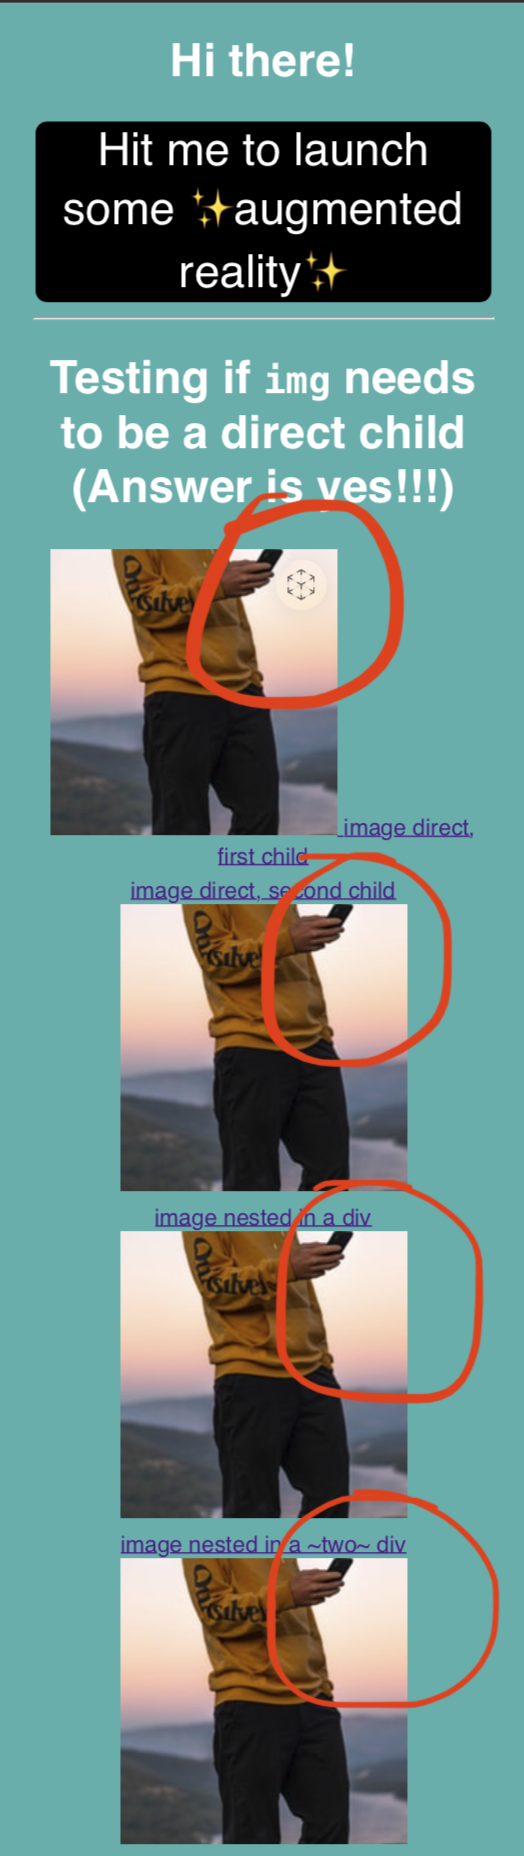
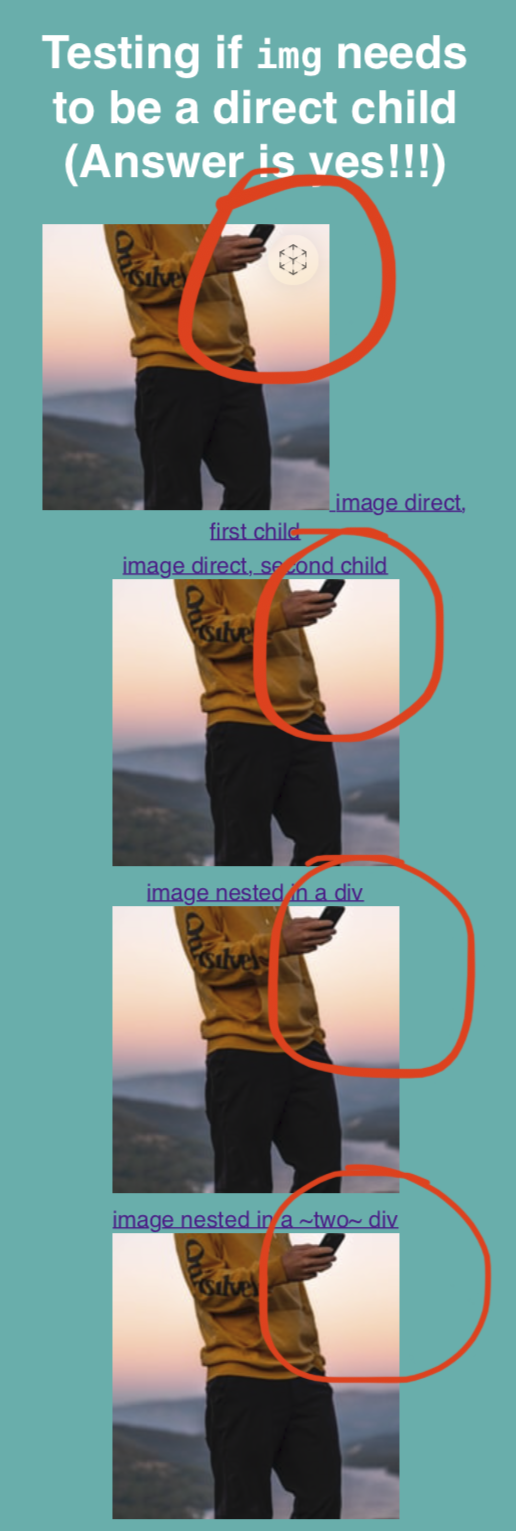
Update USDZ post to near-review-draft

diff --git a/docs/writing/usdz/index.html b/docs/writing/usdz/index.html
@@ -1,4 +1,4 @@
-<!DOCTYPE html><html lang="en"><head><meta charset="UTF-8"><title>Everything I Know About Launching iOS QuickLook From HTML -  cwervo.com</title><meta name="Description" content="Andrés Cuervo's corner of the word wide web!"><meta name="twitter:card" content="summary"><meta name="twitter:site" content="@acwervo"><meta name="twitter:title" content="Everything I Know About Launching iOS QuickLook From HTML"><meta name="twitter:description" content="Andrés Cuervo's slice of the web."><meta name="twitter:image" content="http://cwervo.com/assets/images/favicon.png"><link rel="icon" type="image/png" href="/assets/images/favicon.png"><meta name="viewport" content="initial-scale=1.0"><style>body {padding: 0 3%;}</style><link rel="stylesheet" href="/assets/prism-duotone-light.css"><style>/*Include auto-wrapping 2019-09-23
+<!DOCTYPE html><html lang="en"><head><meta charset="UTF-8"><title>Everything I Know About Launching iOS QuickLook From The Web -  cwervo.com</title><meta name="Description" content="Andrés Cuervo's corner of the word wide web!"><meta name="twitter:card" content="summary"><meta name="twitter:site" content="@acwervo"><meta name="twitter:title" content="Everything I Know About Launching iOS QuickLook From The Web"><meta name="twitter:description" content="Andrés Cuervo's slice of the web."><meta name="twitter:image" content="http://cwervo.com/assets/images/favicon.png"><link rel="icon" type="image/png" href="/assets/images/favicon.png"><meta name="viewport" content="initial-scale=1.0"><style>body {padding: 0 3%;}</style><link rel="stylesheet" href="/assets/prism-duotone-light.css"><style>/*Include auto-wrapping 2019-09-23
 * from this tutorial: https://www.tutorialspoint.com/How-do-I-wrap-text-in-a-pre-tag-in-HTML
 * */
 pre {
@@ -115,50 +115,49 @@ figcaption {
         padding: 0 25%;
     }
 }
-</style><main class="blog-post"><h1 id="blog-title">Everything I Know About Launching iOS QuickLook From HTML</h1><div>September 24, 2019</div><p>Did you know you can launch 3D models from a web page? Like this:</p>
-<p><model-viewer ar src="/assets/3D-models/logo.glb" ios-src="/assets/3D-models/logo-3m-scaled.usdz" auto-rotate camera-controls background-color="#2EAFAC"></model-viewer></p>
-<div class="caption">A 3D version of my personal logo made using <a href="https://github.com/GoogleWebComponents/model-viewer"><code>&lt;model-viewer&gt;</code></a>
+</style><main class="blog-post"><h1 id="blog-title">Everything I Know About Launching iOS QuickLook From The Web</h1><div>September 24, 2019</div><p>Did you know you can launch 3D models from a web page? There's a helpful web component called <a href="https://github.com/GoogleWebComponents/model-viewer"><code>&lt;model-viewer&gt;</code></a> that will handle this for you. It'll look something like this:</p>
+<p><model-viewer ar src="/assets/3D-models/logo.glb" ios-src="/assets/3D-models/logo-3m-scaled.usdz" auto-rotate camera-controls background-color="#2EAFAC" alt="Spinning AC logo"></model-viewer></p>
+<div class="caption">A 3D version of my personal logo displayed using <code>&lt;model-viewer&gt;</code>
 </div>
 <p>... &amp; the source code looks like this:</p>
 <pre class="language-html"><code class="language-html"><span class="token tag"><span class="token tag"><span class="token punctuation">&lt;</span>model-viewer</span><br><span class="highlight-line">    <span class="token attr-name">src</span><span class="token attr-value"><span class="token punctuation">=</span><span class="token punctuation">"</span>/assets/3D-models/logo.glb<span class="token punctuation">"</span></span></span><br><span class="highlight-line">    <span class="token attr-name">ios-src</span><span class="token attr-value"><span class="token punctuation">=</span><span class="token punctuation">"</span>/assets/3D-models/logo-3m-scaled.usdz<span class="token punctuation">"</span></span></span><br>    <span class="token attr-name">ar</span> <span class="token attr-name">auto-rotate</span> <span class="token attr-name">camera-controls</span> <span class="token attr-name">background-color</span><span class="token attr-value"><span class="token punctuation">=</span><span class="token punctuation">"</span>#2EAFAC<span class="token punctuation">"</span></span><span class="token punctuation">></span></span><br><span class="highlight-line"><span class="token tag"><span class="token tag"><span class="token punctuation">&lt;/</span>model-viewer</span><span class="token punctuation">></span></span></span></code></pre>
 <p>On iOS it even launches a proprietary feature called AR QuickLook:</p>
-<p><img src="/assets/images/arquicklook-blog-post/directness-test-screenshot.png" alt="AR QuickLook Preview"></p>
+<p><img src="/assets/images/arquicklook-blog-post/logo-quicklock-screencap.jpg" alt="AR QuickLook screenshot, previewing 3D personal logo"></p>
 <p>Okay, that's cool! How does it work? Well under the hood this web component — <a href="https://github.com/GoogleWebComponents/model-viewer"><code>&lt;model-viewer&gt;</code></a> — is using browser-specific attributes to launch proprietary AR features (translation: this will only work in specific browsers &amp; is not standard HTML!). On iOS devices it's using  <a href="https://developer.apple.com/augmented-reality/quick-look/">iOS QuickLook</a> &amp; on Android it's using <a href="https://developers.google.com/ar/develop/java/scene-viewer">Android's AR Scene Viewer</a>. While Google documents exactly how Scene Viewer should be launched from HTML, Apple's HTML QuickLook documentation is super sparse. It's not on <a href="https://developer.apple.com/documentation/">their documentation website</a> &amp; all I could find officially documenting it is:</p>
 <ul>
 <li>A talk from 2018 — <a href="https://developer.apple.com/videos/play/wwdc2018/603/">Integrating Apps and Content with AR Quick Look</a></li>
 <li>A talk from 2019 — <a href="https://developer.apple.com/videos/play/wwdc2019/612">Advances in AR Quick Look</a></li>
 <li><a href="https://devstreaming-cdn.apple.com/videos/wwdc/2018/603augiuv41xoowslk8/603/603_integrating_apps_and_content_with_ar_quick_look.pdf">Four slides in this PDF</a> (21 through 25, if you're curious)</li>
 </ul>
-<p>... and that's it! There's a <a href="https://developer.apple.com/design/human-interface-guidelines/ios/system-capabilities/quick-look/">wealth</a>. <a href="https://developer.apple.com/library/archive/documentation/FileManagement/Conceptual/DocumentInteraction_TopicsForIOS/Introduction/Introduction.html">of</a>. <a href="https://developer.apple.com/documentation/quicklook">information</a>. on the app-based way to launch QuickLook, but surprisingly little on how to launch it from the web.</p>
+<p>... and that's it! There's a <a href="https://developer.apple.com/design/human-interface-guidelines/ios/system-capabilities/quick-look/">wealth</a>. <a href="https://developer.apple.com/library/archive/documentation/FileManagement/Conceptual/DocumentInteraction_TopicsForIOS/Introduction/Introduction.html">of</a>. <a href="https://developer.apple.com/documentation/quicklook">information</a>. on the app-based way to launch QuickLook, but surprisingly little on how to launch it from the web. This post exists because I've learned a bunch about launching iOS QuickLook from the browser while using it <a href="http://movableink.com/" target="blank_">at work</a> &amp; I want to save others time!</p>
 <h2 id="everything-i-know">Everything I know</h2>
 <h3 id="the-image-tag-is-required">The Image Tag Is Required</h3>
 <p>One thing they don't <em>explicitly</em> say is that the image tag is <strong>required</strong>. You can't just make a link with <code>href=&quot;eg.usdz&quot;</code> &amp; <code>rel=ar</code> — it needs to have a direct child that's an image.That is, in HTML, you <em>need</em> this structure:</p>
-<pre><code>&lt;a href=&quot;example.usdz&quot; rel=&quot;ar&quot;&gt;
-  &lt;img href=&quot;example-poster&quot; /&gt;
-&lt;/a&gt;
-</code></pre>
+<pre class="language-html"><code class="language-html"><span class="highlight-line"><span class="token tag"><span class="token tag"><span class="token punctuation">&lt;</span>a</span> <span class="token attr-name">href</span><span class="token attr-value"><span class="token punctuation">=</span><span class="token punctuation">"</span>example.usdz<span class="token punctuation">"</span></span> <span class="token attr-name">rel</span><span class="token attr-value"><span class="token punctuation">=</span><span class="token punctuation">"</span>ar<span class="token punctuation">"</span></span><span class="token punctuation">></span></span></span><br><span class="highlight-line">    <span class="token tag"><span class="token tag"><span class="token punctuation">&lt;</span>img</span> <span class="token attr-name">href</span><span class="token attr-value"><span class="token punctuation">=</span><span class="token punctuation">"</span>eg.jpg><span class="token punctuation">"</span></span> <span class="token punctuation">/></span></span></span><br><span class="highlight-line"><span class="token tag"><span class="token tag"><span class="token punctuation">&lt;/</span>a</span><span class="token punctuation">></span></span></span></code></pre>
 <h3 id="the-image-tag-must-be-the-first-child">The Image Tag <em>Must</em> Be The First Child</h3>
-<p>I ran a <a href="">little test</a> &amp; as of 2019-09-24, on iOS 13, it appears</p>
+<p>I ran a <a href="">little test</a> &amp; as of 2019-09-24, on iOS 13, it appears that it's a strict requirement for the <code>img</code> tag to be the first nested child of the <code>rel=ar</code> link element. If it's the second element, or even nested in the first child element, Safari fails to recognize it as an AR QuickLook element &amp; instead will link to the USDZ directly. You can see this because the special QuickLook box icon doesn't appear in the top right of any elements after the first:</p>
 <p><img src="/assets/images/arquicklook-blog-post/directness-test-screenshot.png" alt="AR QuickLook Preview"></p>
 <div class="caption">A screenshot from <a href="https://test-ios-quicklook-js.glitch.me/">test-ios-quicklook-js.glitch.me</a> showing that from HTML the only way to activate AR QuickLook on iOS is to have the direct, first child of a <code>rel=ar</code> element be an <code>img</code></div>
+<p>What if you don't want to use a preview image? You can actually get away with something like this:</p>
+<pre class="language-html"><code class="language-html"><span class="highlight-line"><span class="token tag"><span class="token tag"><span class="token punctuation">&lt;</span>a</span> <span class="token attr-name">href</span><span class="token attr-value"><span class="token punctuation">=</span><span class="token punctuation">"</span>example.usdz<span class="token punctuation">"</span></span> <span class="token attr-name">rel</span><span class="token attr-value"><span class="token punctuation">=</span><span class="token punctuation">"</span>ar<span class="token punctuation">"</span></span><span class="token punctuation">></span></span></span><br><span class="highlight-line">    <span class="token tag"><span class="token tag"><span class="token punctuation">&lt;</span>img</span> <span class="token punctuation">/></span></span> <span class="token comment">&lt;!-- remember, this has to be first! --></span></span><br><span class="highlight-line">    <span class="token comment">&lt;!-- Put whatever else you want in here --></span></span><br><span class="highlight-line"><span class="token tag"><span class="token tag"><span class="token punctuation">&lt;/</span>a</span><span class="token punctuation">></span></span></span></code></pre>
+<p>If you're on iOS 13 right now try <a href="https://cwervo-assets.netlify.com/models/cwervo/logo.usdz" rel="ar"> <img> <span>hitting this piece of text</span> </a> &amp; you should see AR QuickLook pop up with the model from the beginning of the post!</p>
 <h2 id="launching-quicklook-from-javascript">Launching QuickLook From JavaScript</h2>
-<p>What if you don't want to use a preview image? You can use the link standalone in HTML like this:</p>
-<pre class="language-html"><code class="language-html"><span class="highlight-line"><span class="token tag"><span class="token tag"><span class="token punctuation">&lt;</span>a</span> <span class="token attr-name">href</span><span class="token attr-value"><span class="token punctuation">=</span><span class="token punctuation">"</span>example.usdz<span class="token punctuation">"</span></span> <span class="token attr-name">rel</span><span class="token attr-value"><span class="token punctuation">=</span><span class="token punctuation">"</span>ar<span class="token punctuation">"</span></span><span class="token punctuation">></span></span></span><br><span class="highlight-line">    <span class="token tag"><span class="token tag"><span class="token punctuation">&lt;</span>img</span> <span class="token attr-name">height</span><span class="token attr-value"><span class="token punctuation">=</span><span class="token punctuation">"</span>1<span class="token punctuation">"</span></span> <span class="token attr-name">width</span><span class="token attr-value"><span class="token punctuation">=</span><span class="token punctuation">"</span>1<span class="token punctuation">"</span></span> <span class="token punctuation">/></span></span></span><br><span class="highlight-line">    <span class="token comment">&lt;!-- Put whatever else you want in here --></span></span><br><span class="highlight-line"><span class="token tag"><span class="token tag"><span class="token punctuation">&lt;/</span>a</span><span class="token punctuation">></span></span></span></code></pre>
-<h2 id="os-differences">OS Differences</h2>
-<h3 id="ios-12">iOS 12</h3>
+<h3 id="os-differences">OS Differences</h3>
+<h4 id="ios-12">iOS 12</h4>
 <ul>
 <li>Works in Safari &amp; PWA's (e.g. pages saved to the Home Screen from Safari)</li>
-<li>Doesn't work in WKWebViews</li>
+<li>Doesn't work in in-app browsers</li>
 </ul>
-<h3 id="ios-13">iOS 13</h3>
+<h4 id="ios-13">iOS 13</h4>
 <ul>
 <li>Works in all of the above</li>
+<li>Now works in in-app browsers!
+<ul>
 <li>Big exception: as of 2019-09-23 this still doesn't work in Facebook's in-app web browser. It looks like they're not using the standard in-app browser &amp; using their own WKWebView ¯_(ツ)_/¯</li>
 </ul>
-<p>Include that this works in in-app browsers as of iOS 13 (e.g. Twitter's link preview or Notion's preview. Not Facebooks's though because they're using a custom WKWebView) &amp; in PWA'S. Doesn't in iOS 12.</p>
-<p>/// try <a href="https://twitter.com/hvhbinc/status/1176277202985467906?s=21">this</a> on old iPhone !! See if it works in Notion's webview &amp; Twitter's Webview!</p>
-<p>// test this in a Glitch project that sets itself as a minimal iOS PWA</p>
+</li>
+</ul>
 <h2 id="did-i-miss-anything%3F">Did I miss anything?</h2>
-<p>I'm posting this because I'd like there to be a single reference for all this information — if I missed anything, feel free to email me at hi+usdz@cwe.wtf</p>
-<p>// note: this means you have to set up mail forwarding from <a href="http://cwe.wtf">cwe.wtf</a> ... See if Cloudflare can do this? Otherwise just use namecheap mail service 🙃</p>
+<p>I'm posting this because I'd like there to be a single reference for all this information — if I missed anything, feel free to email me at
+<a href="mailto:hi+usdz@cwe.wtf">hi+usdz@cwe.wtf</a></p>
 <span><span class="date">◼ September 24, 2019 </span><a href="https://twitter.com/acwervo">@acwervo</a></span></main><p><a href="/">← Home</a></p></body></html>

diff --git a/docs/writing/drafts/index.html b/docs/writing/drafts/index.html
@@ -72,4 +72,4 @@ nav > ul > li:not(:last-child) {
 ::selection {
     background: #2EAFAC;
 }
-</style></head><link rel="stylesheet" href="/main.css"><!-- Colors from: http://clrs.cc/a11y/--><body style="font-family: sans-serif; color: black; background-color: #FFFFFF;"><nav style="display: block; width: 100%; font-size: 1.25rem;"><ul id="navList" style="list-style-type: none; padding-left: 0;"><li class="navItem" id="logo"><a href="/"><img id="logoImg" src="/assets/images/favicon.png" alt="small-logo"></a></li><li class="navItem"><a href="/">Home</a></li><li class="navItem"><a href="/writing">Writing</a></li><li class="navItem"><a href="/projects">Projects</a></li><li class="navItem"><a href="/speaking">Speaking</a></li><li class="navItem"><a href="/contact">Contact</a></li><li class="navItem"><a href="https://meet.cwervo.com/">Coffee☕</a></li></ul></nav><br><h2>Drafts</h2><li><a href="/writing/gestlat-based-programming/">Gestalt Based Programming (Fri Aug 31 2018 20:00:00 GMT-0400 (Eastern Daylight Time))</a></li><li><a href="/writing/first-post/">first test post (2018-09-02)</a></li><li><a href="/writing/drafts/">Drafts ()</a></li><li><a href="/writing/">Writing ()</a></li><li><a href="/writing/usdz/">Everything I Know About Launching iOS QuickLook From HTML (2019-09-24)</a></li></body></html>
+</style></head><link rel="stylesheet" href="/main.css"><!-- Colors from: http://clrs.cc/a11y/--><body style="font-family: sans-serif; color: black; background-color: #FFFFFF;"><nav style="display: block; width: 100%; font-size: 1.25rem;"><ul id="navList" style="list-style-type: none; padding-left: 0;"><li class="navItem" id="logo"><a href="/"><img id="logoImg" src="/assets/images/favicon.png" alt="small-logo"></a></li><li class="navItem"><a href="/">Home</a></li><li class="navItem"><a href="/writing">Writing</a></li><li class="navItem"><a href="/projects">Projects</a></li><li class="navItem"><a href="/speaking">Speaking</a></li><li class="navItem"><a href="/contact">Contact</a></li><li class="navItem"><a href="https://meet.cwervo.com/">Coffee☕</a></li></ul></nav><br><h2>Drafts</h2><li><a href="/writing/gestlat-based-programming/">Gestalt Based Programming (Fri Aug 31 2018 20:00:00 GMT-0400 (Eastern Daylight Time))</a></li><li><a href="/writing/first-post/">first test post (2018-09-02)</a></li><li><a href="/writing/drafts/">Drafts ()</a></li><li><a href="/writing/">Writing ()</a></li><li><a href="/writing/usdz/">Everything I Know About Launching iOS QuickLook From The Web (2019-09-24)</a></li></body></html>

diff --git a/src/writing/usdz.md b/src/writing/usdz.md
@@ -1,15 +1,15 @@
 ---
-title: Everything I Know About Launching iOS QuickLook From HTML
+title: Everything I Know About Launching iOS QuickLook From The Web
 date: "2019-09-24"
 draft: true
 includeModelViewer0dot6: true
 syntaxHighlighting: true
 ---
 
-Did you know you can launch 3D models from a web page? Like this:
+Did you know you can launch 3D models from a web page? There's a helpful web component called <a href="https://github.com/GoogleWebComponents/model-viewer"><code>&lt;model-viewer&gt;</code></a> that will handle this for you. It'll look something like this:
 
-<model-viewer ar src="/assets/3D-models/logo.glb" ios-src="/assets/3D-models/logo-3m-scaled.usdz" auto-rotate camera-controls background-color="#2EAFAC"></model-viewer>
-<div class="caption">A 3D version of my personal logo made using <a href="https://github.com/GoogleWebComponents/model-viewer"><code>&lt;model-viewer&gt;</code></a>
+<model-viewer ar src="/assets/3D-models/logo.glb" ios-src="/assets/3D-models/logo-3m-scaled.usdz" auto-rotate camera-controls background-color="#2EAFAC" alt="Spinning AC logo"></model-viewer>
+<div class="caption">A 3D version of my personal logo displayed using <code>&lt;model-viewer&gt;</code>
 </div>
 
 ... & the source code looks like this:
@@ -24,7 +24,8 @@ Did you know you can launch 3D models from a web page? Like this:
 
 On iOS it even launches a proprietary feature called AR QuickLook:
 
-![AR QuickLook Preview](/assets/images/arquicklook-blog-post/directness-test-screenshot.png)
+![AR QuickLook screenshot, previewing 3D personal logo](/assets/images/arquicklook-blog-post/logo-quicklock-screencap.jpg)
+
 
 Okay, that's cool! How does it work? Well under the hood this web component — [`<model-viewer>`](https://github.com/GoogleWebComponents/model-viewer) — is using browser-specific attributes to launch proprietary AR features (translation: this will only work in specific browsers & is not standard HTML!). On iOS devices it's using  [iOS QuickLook](https://developer.apple.com/augmented-reality/quick-look/) & on Android it's using [Android's AR Scene Viewer](https://developers.google.com/ar/develop/java/scene-viewer). While Google documents exactly how Scene Viewer should be launched from HTML, Apple's HTML QuickLook documentation is super sparse. It's not on [their documentation website](https://developer.apple.com/documentation/) & all I could find officially documenting it is:
 
@@ -32,7 +33,7 @@ Okay, that's cool! How does it work? Well under the hood this web component — 
 - A talk from 2019 — [Advances in AR Quick Look](https://developer.apple.com/videos/play/wwdc2019/612)
 - [Four slides in this PDF](https://devstreaming-cdn.apple.com/videos/wwdc/2018/603augiuv41xoowslk8/603/603_integrating_apps_and_content_with_ar_quick_look.pdf) (21 through 25, if you're curious)
 
-... and that's it! There's a [wealth](https://developer.apple.com/design/human-interface-guidelines/ios/system-capabilities/quick-look/). [of](https://developer.apple.com/library/archive/documentation/FileManagement/Conceptual/DocumentInteraction_TopicsForIOS/Introduction/Introduction.html). [information](https://developer.apple.com/documentation/quicklook). on the app-based way to launch QuickLook, but surprisingly little on how to launch it from the web.
+... and that's it! There's a [wealth](https://developer.apple.com/design/human-interface-guidelines/ios/system-capabilities/quick-look/). [of](https://developer.apple.com/library/archive/documentation/FileManagement/Conceptual/DocumentInteraction_TopicsForIOS/Introduction/Introduction.html). [information](https://developer.apple.com/documentation/quicklook). on the app-based way to launch QuickLook, but surprisingly little on how to launch it from the web. This post exists because I've learned a bunch about launching iOS QuickLook from the browser while using it <a href="http://movableink.com/" target="blank_">at work</a> & I want to save others time!
 
 ## Everything I know
 
@@ -40,47 +41,46 @@ Okay, that's cool! How does it work? Well under the hood this web component — 
 
 One thing they don't *explicitly* say is that the image tag is **required**. You can't just make a link with `href="eg.usdz"` & `rel=ar` — it needs to have a direct child that's an image.That is, in HTML, you *need* this structure:
 
-    <a href="example.usdz" rel="ar">
-      <img href="example-poster" />
-    </a>
+```html
+<a href="example.usdz" rel="ar">
+    <img href="eg.jpg>" />
+</a>
+```
 
 ### The Image Tag _Must_ Be The First Child
 
-I ran a [little test]() & as of 2019-09-24, on iOS 13, it appears
+I ran a [little test]() & as of 2019-09-24, on iOS 13, it appears that it's a strict requirement for the `img` tag to be the first nested child of the `rel=ar` link element. If it's the second element, or even nested in the first child element, Safari fails to recognize it as an AR QuickLook element & instead will link to the USDZ directly. You can see this because the special QuickLook box icon doesn't appear in the top right of any elements after the first:
 
 ![AR QuickLook Preview](/assets/images/arquicklook-blog-post/directness-test-screenshot.png)
 <div class="caption">A screenshot from <a href="https://test-ios-quicklook-js.glitch.me/">test-ios-quicklook-js.glitch.me</a> showing that from HTML the only way to activate AR QuickLook on iOS is to have the direct, first child of a <code>rel=ar</code> element be an <code>img</code></div>
 
-## Launching QuickLook From JavaScript
-What if you don't want to use a preview image? You can use the link standalone in HTML like this:
+What if you don't want to use a preview image? You can actually get away with something like this:
 
 ```html
 <a href="example.usdz" rel="ar">
-    <img height="1" width="1" />
+    <img /> <!-- remember, this has to be first! -->
     <!-- Put whatever else you want in here -->
 </a>
 ```
 
-## OS Differences
+If you're on iOS 13 right now try <a href="https://cwervo-assets.netlify.com/models/cwervo/logo.usdz" rel="ar"> <img> <span>hitting this piece of text</span> </a> & you should see AR QuickLook pop up with the model from the beginning of the post!
 
-### iOS 12
+## Launching QuickLook From JavaScript
+
+### OS Differences
+
+#### iOS 12
 
 - Works in Safari & PWA's (e.g. pages saved to the Home Screen from Safari)
-- Doesn't work in WKWebViews
+- Doesn't work in in-app browsers
 
-### iOS 13
+#### iOS 13
 
 - Works in all of the above
-- Big exception: as of 2019-09-23 this still doesn't work in Facebook's in-app web browser. It looks like they're not using the standard in-app browser & using their own WKWebView ¯\_(ツ)_/¯
-
-Include that this works in in-app browsers as of iOS 13 (e.g. Twitter's link preview or Notion's preview. Not Facebooks's though because they're using a custom WKWebView) & in PWA'S. Doesn't in iOS 12.
-
-/// try [this](https://twitter.com/hvhbinc/status/1176277202985467906?s=21) on old iPhone !! See if it works in Notion's webview & Twitter's Webview!
-
-// test this in a Glitch project that sets itself as a minimal iOS PWA
+- Now works in in-app browsers!
+    - Big exception: as of 2019-09-23 this still doesn't work in Facebook's in-app web browser. It looks like they're not using the standard in-app browser & using their own WKWebView ¯\_(ツ)_/¯
 
 ## Did I miss anything?
 
-I'm posting this because I'd like there to be a single reference for all this information — if I missed anything, feel free to email me at hi+usdz@cwe.wtf
-
-// note: this means you have to set up mail forwarding from [cwe.wtf](http://cwe.wtf) ... See if Cloudflare can do this? Otherwise just use namecheap mail service 🙃
+I'm posting this because I'd like there to be a single reference for all this information — if I missed anything, feel free to email me at
+<a href="mailto:hi+usdz@cwe.wtf">hi+usdz@cwe.wtf</a>
